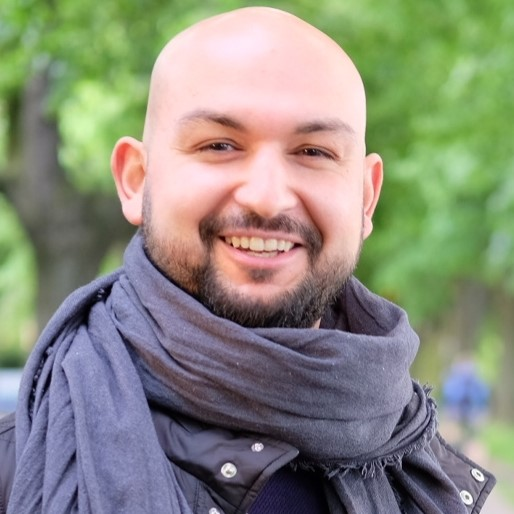
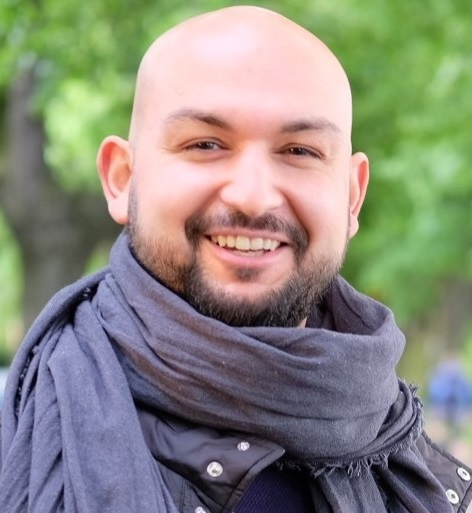
Live photos, members texts, Profs photos fixed (texts and Sven to do)

diff --git a/pages/people_team.html b/pages/people_team.html
@@ -138,7 +138,7 @@
             <div class="das-team color-red">
               <div class="pic">
                 <div class="round-team">
-                  <img src="../docs/team/jg001.jpeg" alt="">
+                  <img src="../docs/team/jg001.gif" alt="">
                   <div class="team-content">
                     <h3 class="title">Julia</h3>
                     <span class="post">Gehrmann</span>
@@ -157,7 +157,10 @@
                 <span class="post">Gehrmann</span>
               </div>
               <p class="description">
-                Lorem ipsum dolor sit amet, consectetur adipiscing elit. Quisque ac eros lacus. Sed commodo fringilla pharetra. Proin sodales risus et nunc volutpat.
+                In the first place, I consider iGEM a big opportunity for networking and gaining insight into the scientific world.
+                By taking care of some organisational aspects, I wanted to enable the other team members to invest more time in laboratory work.
+                Furthermore, I wanted to support the theoretical modelling as well as the hardware and IT part of the project with the knowledge I gained in the Computer Science Bachelor’s program.
+                I like to face my fears. That is why I go climbing although I am afraid of heights.
               </p>
             </div>
           </div>
@@ -165,7 +168,7 @@
             <div class="das-team color-green">
               <div class="pic">
                 <div class="round-team">
-                  <img src="../docs/team/mw001.jpeg" alt="">
+                  <img src="../docs/team/mw001.gif" alt="">
                   <div class="team-content">
                     <h3 class="title">Marcel</h3>
                     <span class="post">Wittmund</span>
@@ -184,7 +187,10 @@
                 <span class="post">Wittmund</span>
               </div>
               <p class="description">
-                Lorem ipsum dolor sit amet, consectetur adipiscing elit. Quisque ac eros lacus. Sed commodo fringilla pharetra. Proin sodales risus et nunc volutpat.
+                My expectations from iGEM were: making a great project and getting a lot of professionial experience toogether with like-minded teams.
+                I supported our team with my talent for organizing and scheduling as well as with my experience in molecular dynamics.
+                In biology there is always another level to the equation, since you can say: all of this emerged by chance. I think that's beautiful and fascinating.
+                I am very interested in bioinformatics and am currently working on my first own project in AI-Clustering and sequence analysis.
               </p>
             </div>
           </div>
@@ -208,7 +214,7 @@
             <div class="das-team color-blue">
               <div class="pic">
                 <div class="round-team">
-                  <img src="../docs/team/dc001.jpeg" alt="">
+                  <img src="../docs/team/dc001.gif" alt="">
                   <div class="team-content">
                     <h3 class="title">Daniel</h3>
                     <span class="post">Costard</span>
@@ -225,7 +231,11 @@
                 <span class="post">Costard</span>
               </div>
               <p class="description">
-                Lorem ipsum dolor sit amet, consectetur adipiscing elit. Quisque ac eros lacus. Sed commodo fringilla pharetra. Proin sodales risus et nunc volutpat.
+                The iGEM competition is my first experience in the lab on my own.
+                I am motivated to support the team efforts the best I can, like helping out in the lab anytime or by thinking of new ways to solve our problems.
+                Like John von Neumann said: "Organization has a purpose, order does not".
+                Order is something you can find regularly in nature like in crystals which have their molecules very well structured.
+                But organization is more than order and can only be found in living systems and serves a particular purpose.
               </p>
             </div>
           </div>
@@ -234,7 +244,7 @@
             <div class="das-team color-yellow">
               <div class="pic">
                 <div class="round-team">
-                  <img src="../docs/team/fk001.jpeg" alt="">
+                  <img src="../docs/team/fk001.gif" alt="">
                   <div class="team-content">
                     <h3 class="title">Florian</h3>
                     <span class="post">Kroh</span>
@@ -251,7 +261,11 @@
                 <span class="post">Kroh</span>
               </div>
               <p class="description">
-                Lorem ipsum dolor sit amet, consectetur adipiscing elit. Quisque ac eros lacus. Sed commodo fringilla pharetra. Proin sodales risus et nunc volutpat.
+                Not having much exposure to biology, I wanted to learn the fundamentals of engineering biology.
+                IGEM is a great opportunity to meet synbio enthusiasts and learn about their vision for the future.
+                I helped our team by providing my knowledge of mechanical engineering to build a scalable bioreactor.
+                Having good knowledge of entrepreneurship research I provided a framework, how motivated people work together towards one goal.
+                I'm also a treasurer of the NGO which promotes entrepreneurship.
               </p>
             </div>
           </div>
@@ -260,7 +274,7 @@
             <div class="das-team color-red">
               <div class="pic">
                 <div class="round-team">
-                  <img src="../docs/team/kb001.jpeg" alt="">
+                  <img src="../docs/team/kb001.gif" alt="">
                   <div class="team-content">
                     <h3 class="title">Kim</h3>
                     <span class="post">Büttgen</span>
@@ -277,7 +291,11 @@
                 <span class="post">Büttgen</span>
               </div>
               <p class="description">
-                Lorem ipsum dolor sit amet, consectetur adipiscing elit. Quisque ac eros lacus. Sed commodo fringilla pharetra. Proin sodales risus et nunc volutpat.
+                IGEM broadened my horizons and we had a lively exchange of ideas.
+                I supported our goal with my previously acquired knowledge, my experience in the laboratory and my commitment.
+                What I like about biology is: anything is possible, nature always surprises you and offers new opportunities and perspectives on every corner.
+                I'm a nurse and I am currently working with a fantastic and committed new team on a corona infection station.
+                I have a lot of fun teaching others something new, which is why I work as a tutor and supervisor.
               </p>
             </div>
           </div>
@@ -293,7 +311,7 @@
             <div class="das-team color-green">
               <div class="pic">
                 <div class="round-team">
-                  <img src="../docs/team/ls001.jpeg" alt="">
+                  <img src="../docs/team/ls001.gif" alt="">
                   <div class="team-content">
                     <h3 class="title">Lina</h3>
                     <span class="post">Schmidt</span>
@@ -311,7 +329,11 @@
                 <span class="post">Schmidt</span>
               </div>
               <p class="description">
-                Lorem ipsum dolor sit amet, consectetur adipiscing elit. Quisque ac eros lacus. Sed commodo fringilla pharetra. Proin sodales risus et nunc volutpat.
+                My favourite part of iGEM was to share information with other teams from all around the world and familiarize people with synthetic biology.
+                Although I've been busy with fundraising, I also supported our team by assisting wherever help was needed for our project's progress.
+                I love about biotechnology that you can use organisms, enzymes or cells to do all the work for you.
+                If you wanna have a wine, put some grapes together with the right organisms and there you go.
+                I tended to end our team meetings cause I’d been hungry.
               </p>
             </div>
           </div>
@@ -320,7 +342,7 @@
             <div class="das-team color-blue">
               <div class="pic">
                 <div class="round-team">
-                  <img src="../docs/team/md001.jpeg" alt="">
+                  <img src="../docs/team/md001.gif" alt="">
                   <div class="team-content">
                     <h3 class="title">Maximilian</h3>
                     <span class="post">Dreimann</span>
@@ -337,7 +359,10 @@
                 <span class="post">Dreimann</span>
               </div>
               <p class="description">
-                Lorem ipsum dolor sit amet, consectetur adipiscing elit. Quisque ac eros lacus. Sed commodo fringilla pharetra. Proin sodales risus et nunc volutpat.
+                IGEM is all in all a chance for scientific creativity. Finding creative solutions for problems on our own and being completely responsible for a project in every aspect.
+                Putting in the work in the lab and in the integrated human practices as well as keeping everyone engaged and motivated were my contributions to our project.
+                How nature found elegant solutions for problems, which are beyond our understanding inspires me the most.
+                Together with 2 friends I founded a start up company to fight ocean acidification and CO2 pollution.
               </p>
             </div>
           </div>
@@ -346,7 +371,7 @@
             <div class="das-team color-yellow">
               <div class="pic">
                 <div class="round-team">
-                  <img src="../docs/team/pe001.jpeg" alt="">
+                  <img src="../docs/team/pe001.gif" alt="">
                   <div class="team-content">
                     <h3 class="title">Pia</h3>
                     <span class="post">Ergezinger</span>
@@ -364,7 +389,10 @@
                 <span class="post">Ergezinger</span>
               </div>
               <p class="description">
-                Lorem ipsum dolor sit amet, consectetur adipiscing elit. Quisque ac eros lacus. Sed commodo fringilla pharetra. Proin sodales risus et nunc volutpat.
+                I expected a very interesting and great time with our team and project. For me it was a chance to get to know wonderful new people and how it is like to work on a science project on your own.
+                I supported our goal in the lab and helped to get the money we needed for the project.
+                Nature is a big map of pathways and nature is the only instance that has an overview over it/everything. Everything is conected to each other and that is what inspires me.
+                When I spend a vacation on a beach I also go surfing.
               </p>
             </div>
           </div>
@@ -380,7 +408,7 @@
             <div class="das-team color-red">
               <div class="pic">
                 <div class="round-team">
-                  <img src="../docs/team/re001.jpeg" alt="">
+                  <img src="../docs/team/re001.gif" alt="">
                   <div class="team-content">
                     <h3 class="title">Raphael</h3>
                     <span class="post">Egging</span>
@@ -398,7 +426,11 @@
                 <span class="post">Egging</span>
               </div>
               <p class="description">
-                Lorem ipsum dolor sit amet, consectetur adipiscing elit. Quisque ac eros lacus. Sed commodo fringilla pharetra. Proin sodales risus et nunc volutpat.
+                In iGEM broadened my knowledge in biology, worked with an interdisciplinary team on a challenging task.
+                I advised on the feasibility from a physical point of view and helped building the wiki and hardware components.
+                In physics one can derive all stuff from Hamilton's Principle and some basic symmetry assumptions. Classical Mechanics, Maxwell's equations and Einstein's field equations can all be derived from that one basic principle.
+                This is what inspires me about the nature.
+                I work as a DJ and play in theatre.
               </p>
             </div>
           </div>
@@ -407,7 +439,7 @@
             <div class="das-team color-green">
               <div class="pic">
                 <div class="round-team">
-                  <img src="../docs/team/sa001.jpeg" alt="">
+                  <img src="../docs/team/sa001.gif" alt="">
                   <div class="team-content">
                     <h3 class="title">Salim</h3>
                     <span class="post">Atakhanov</span>
@@ -424,7 +456,10 @@
                 <span class="post">Atakhanov</span>
               </div>
               <p class="description">
-                Lorem ipsum dolor sit amet, consectetur adipiscing elit. Quisque ac eros lacus. Sed commodo fringilla pharetra. Proin sodales risus et nunc volutpat.
+                Scientific research is my outlet, for it propels me into work at professional levels.
+                I contributed to our project with my experience in Human Practices, PR management as well as my research experience in the laboratory.
+                I think that, from biological point of view, cancer development is fascinating. One tiny mutation can cause uncontrolled division of cells that form tumor and avoid immune recognition.
+                I currently research myoloproliferative neoplasms in the University Hospital of RWTH Aachen.
               </p>
             </div>
           </div>
@@ -433,7 +468,7 @@
             <div class="das-team color-blue">
               <div class="pic">
                 <div class="round-team">
-                  <img src="../docs/team/sb001.jpeg" alt="">
+                  <img src="../docs/team/sb001.gif" alt="">
                   <div class="team-content">
                     <h3 class="title">Selma</h3>
                     <span class="post">Busch</span>
@@ -451,7 +486,10 @@
                 <span class="post">Busch</span>
               </div>
               <p class="description">
-                Lorem ipsum dolor sit amet, consectetur adipiscing elit. Quisque ac eros lacus. Sed commodo fringilla pharetra. Proin sodales risus et nunc volutpat.
+                IGEM was one of my first experiences in the lab. I think it's a great way to learn how science really works.
+                I'm tried my best to help finding solutions for any given challenge. I was engaged in fundraising and our human practices. I also took part in the lab work.
+                I'm fascinated by the fact how every little feature of life ultimatly serves the propagation of genetic material. No matter how big or complex an organism might be, it's at the same time always a minimalistic and fragile construct.
+                I love any kinds of riddles, particularly crosswords.
               </p>
             </div>
           </div>
@@ -467,7 +505,7 @@
             <div class="das-team color-yellow">
               <div class="pic">
                 <div class="round-team">
-                  <img src="../docs/team/ss001.jpeg" alt="">
+                  <img src="../docs/team/ss001.gif" alt="">
                   <div class="team-content">
                     <h3 class="title">Shlok</h3>
                     <span class="post">Szatkowski</span>
@@ -485,7 +523,10 @@
                 <span class="post">Szatkowski</span>
               </div>
               <p class="description">
-                Lorem ipsum dolor sit amet, consectetur adipiscing elit. Quisque ac eros lacus. Sed commodo fringilla pharetra. Proin sodales risus et nunc volutpat.
+                 Developing our project with our great team, sharing it with like-minded students, and  learning about their achievements was what I pursued in IGEM.
+                 Besides working in the lab, I supported our team by communicating the significance of synthetic biology to the general public.
+                 Emergence is what always fascinated me most in biology. While it is a common thread in all science, I never saw it in as many facets as biology had to offer me.
+                 I'm also developing a project for the educational department of the museums of Aachen about environment and sustainability in Europe.
               </p>
             </div>
           </div>
@@ -512,7 +553,10 @@
                 <span class="post">Leisen</span>
               </div>
               <p class="description">
-                Lorem ipsum dolor sit amet, consectetur adipiscing elit. Quisque ac eros lacus. Sed commodo fringilla pharetra. Proin sodales risus et nunc volutpat.
+                The idea of finally getting my hands on a self chosen project sounded really appealing to me. Cooperating as a team from different science fields was a very valuable experience.
+                I supported my team with my knowledge of the biotechnical aspects of our project. I like working with people and tried my best to bring the field of synthetic biology closer to the public.
+                My fascination lies in the principles of the molecular machinery which defines the fine line between more or less simple interacting molecules and a living organism.
+                As a kid I really liked dinosaurs. I still do.
               </p>
             </div>
           </div>
@@ -521,7 +565,7 @@
             <div class="das-team color-green">
               <div class="pic">
                 <div class="round-team">
-                  <img src="../docs/team/vl001.jpg" alt="">
+                  <img src="../docs/team/vl001.gif" alt="">
                   <div class="team-content">
                     <h3 class="title">Vladyslav</h3>
                     <span class="post">Los</span>
@@ -539,7 +583,10 @@
                 <span class="post">Los</span>
               </div>
               <p class="description">
-                Lorem ipsum dolor sit amet, consectetur adipiscing elit. Quisque ac eros lacus. Sed commodo fringilla pharetra. Proin sodales risus et nunc volutpat.
+                In iGEM I got out of my comfort zone, gained new experience, met interesting people and tried myself in a new role.
+                My ability to come up with bold hardware and design ideas, and  my natural skepticism found great use in our diversified team. I spend most of my time in the team designing and developing our wiki.
+                Feynman Diagrams are an example of how one can represent differential equations as a few lines intersecting each other with certain rules. For me, it shows how important abstraction is to make complex problems easier.
+                I love exotic sports like fencing or paragliding.
               </p>
             </div>
           </div>

diff --git a/css/people_team.css b/css/people_team.css
@@ -142,6 +142,7 @@
     font-size: 16px;
     line-height: 30px;
     margin-bottom: 0;
+    text-align: justify;
     color: #eaeaea;
     background: rgba(17, 14, 33, 0.5);
 }
